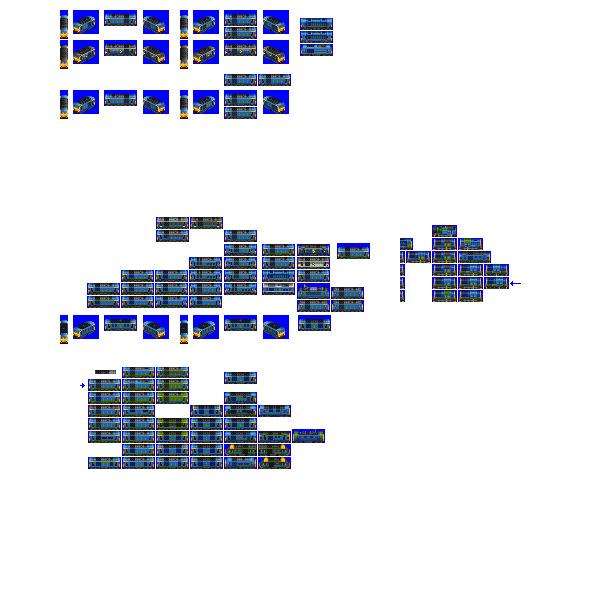
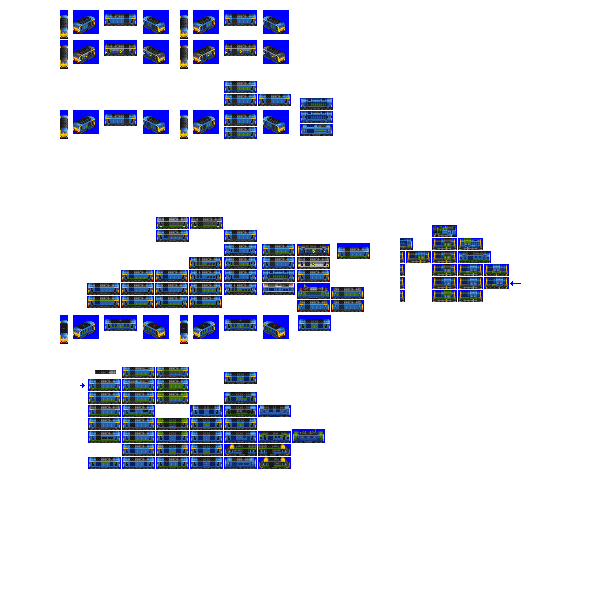
Change: sprites complete for Centaur, Onslaught, Resistance

Changed region(s): [[0.09, 0.12, 0.57, 0.24], [0.48, 0.03, 0.57, 0.12], [0.36, 0.03, 0.45, 0.09]]

diff --git a/src/vehicles/centaur.py b/src/vehicles/centaur.py
@@ -27,7 +27,7 @@ def main(roster_id):
             ("COLOUR_YELLOW", "COLOUR_YELLOW"),
         ],
         caboose_family="railfreight_2",
-        sprites_complete=False,
+        sprites_complete=True,
     )
 
     consist.add_unit(
@@ -35,6 +35,6 @@ def main(roster_id):
     )
 
     consist.description = """Technically, we're all half centaur."""
-    consist.foamer_facts = """proposed BR Class 38, precursor to Class 60"""
+    consist.foamer_facts = """proposed BR Class 38, intended to replace class 37"""
 
     return consist

diff --git a/src/vehicles/resistance.py b/src/vehicles/resistance.py
@@ -19,8 +19,8 @@ def main(roster_id):
         intro_year_offset=-4, # earlier than the IRL introduction of this never-built train...
         pantograph_type="z-shaped-double",
         caboose_family="railfreight_2",
-        additional_liveries=[],
-        sprites_complete=False,
+        additional_liveries=["RAILFREIGHT_RED_STRIPE"],
+        sprites_complete=True,
     )
 
     consist.add_unit(

diff --git a/src/vehicles/onslaught.py b/src/vehicles/onslaught.py
@@ -20,7 +20,7 @@ def main(roster_id):
         #additional_liveries=["BANGER_BLUE", "LARGE_LOGO", "FANCY_BLUE", "INTERCITY_RASPBERRY_RIPPLE", "RAILFREIGHT_TRIPLE_GREY", "DUTCH"],
         additional_liveries=["BANGER_BLUE"],
         decor_spriterow_num=7,
-        sprites_complete=False,
+        sprites_complete=True,
         sprites_additional_liveries_needed=True, # more?
     )
 
